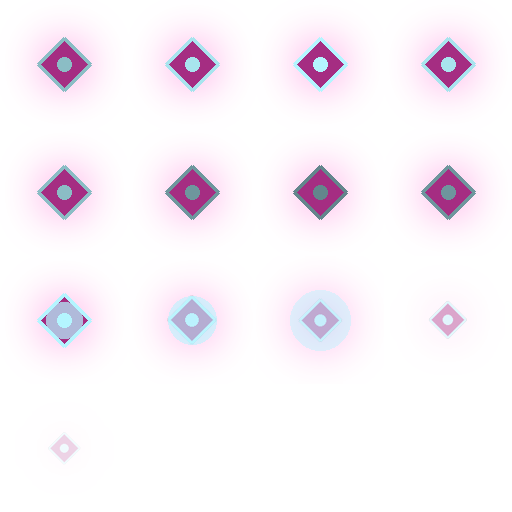
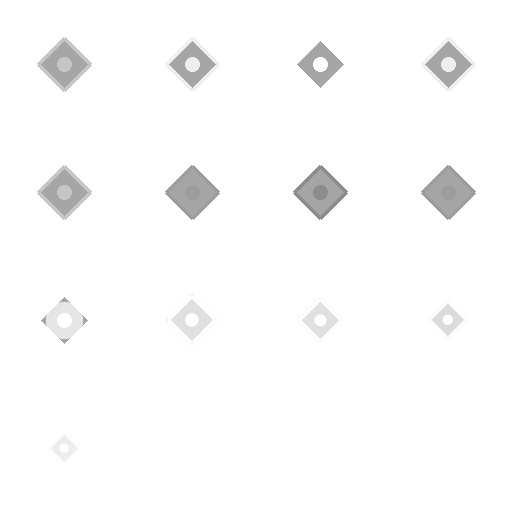
assets: sprite/backdrop generator pass + Prism arena art
Regenerated enemy sprites off the reworked palette, plus the new Prism arena
set (backdrop layers, pillar, vent).

Claude-Session: https://claude.ai/code/session_019Jpf5Yfjceeu1n5tz7Bfrk

diff --git a/assets/generator/v2/palette.py b/assets/generator/v2/palette.py
@@ -24,6 +24,12 @@ class Palette:
     accent: RGB     # highlights, muzzle flashes, projectiles
     hazard: RGB     # contact-hazard tint (vents/lava)
     obstacle: RGB   # pillar/wall body tint
+    # v2 Phase 5a: the colour enemies are *tinted* in this arena. Enemy sprites
+    # are generated from MONO (below) and coloured at runtime by ArenaDef's
+    # enemy_tint, so this is the single source of truth for that JSON value.
+    # Chosen complementary to `primary` — an enemy must never be the arena's own
+    # neon, which is exactly the bug this phase fixes.
+    enemy: RGB = (255, 255, 255)
 
 
 CORE = Palette(
@@ -34,6 +40,7 @@ CORE = Palette(
     accent=(180, 245, 255),     # pale cyan-white
     hazard=(255, 90, 160),
     obstacle=(70, 90, 140),
+    enemy=(255, 70, 200),       # magenta against the cyan core
 )
 
 FOUNDRY = Palette(
@@ -44,6 +51,7 @@ FOUNDRY = Palette(
     accent=(255, 230, 160),     # pale amber
     hazard=(255, 120, 30),
     obstacle=(120, 80, 50),
+    enemy=(70, 210, 255),       # cyan against the orange foundry
 )
 
 BIOLAB = Palette(
@@ -54,9 +62,39 @@ BIOLAB = Palette(
     accent=(200, 255, 210),     # pale green-white
     hazard=(140, 255, 90),
     obstacle=(60, 110, 90),
+    enemy=(190, 120, 255),      # violet against the green bio-lab
 )
 
-ARENAS = [CORE, FOUNDRY, BIOLAB]
+# v2 Phase 5b — the fourth arena (waves 16-20). Deliberately achromatic:
+# its enemies hue-cycle (tie-dye), so a saturated backdrop would fight a sixth of
+# every cycle. A violet-white void keeps the rainbow swarm legible throughout.
+PRISM = Palette(
+    name="prism",
+    clear=(14, 10, 22),
+    primary=(200, 190, 255),    # pale violet-white
+    secondary=(255, 255, 255),
+    accent=(240, 240, 255),
+    hazard=(255, 80, 120),
+    obstacle=(80, 78, 110),
+    enemy=(255, 255, 255),      # unused: tick_enemy_tint overwrites it every frame
+)
+
+# v2 Phase 5a — not an arena. Enemy sprites are generated against this so the art
+# is pure luminance; multiplying it by a saturated hue at runtime (SDL colour-mod)
+# reproduces the old look at full richness and makes every other hue work too.
+# The relative-value structure lives in make_sprites' scale_col()/pulse() factors,
+# so nothing about the shapes has to change.
+MONO = Palette(
+    name="mono",
+    clear=(0, 0, 0),
+    primary=(255, 255, 255),
+    secondary=(210, 210, 210),
+    accent=(255, 255, 255),
+    hazard=(255, 255, 255),
+    obstacle=(255, 255, 255),
+)
+
+ARENAS = [CORE, FOUNDRY, BIOLAB, PRISM]
 BY_NAME = {p.name: p for p in ARENAS}
 
 
@@ -67,4 +105,4 @@ def lerp(a: RGB, b: RGB, t: float) -> RGB:
 if __name__ == "__main__":
     for p in ARENAS:
         print(f"{p.name:8} clear={p.clear} primary={p.primary} "
-              f"secondary={p.secondary} accent={p.accent}")
+              f"secondary={p.secondary} accent={p.accent} enemy={p.enemy}")

diff --git a/assets/generator/v2/make_sprites.py b/assets/generator/v2/make_sprites.py
@@ -18,7 +18,7 @@ import math
 from PIL import Image, ImageDraw, ImageFilter
 
 from common import add_halo, write_sprite
-from palette import CORE, FOUNDRY, BIOLAB
+from palette import CORE, FOUNDRY, BIOLAB, MONO
 
 S = 128  # frame size
 
@@ -245,12 +245,17 @@ def main():
     write_sprite("player_drone", player_frames(6), 3,
                  {"march": {"start_frame": 0, "frame_count": 6,
                             "frame_duration": 0.09, "looping": True}})
-    # Enemies: march (loop) + death (oneshot) concatenated
+    # Enemies: march (loop) + death (oneshot) concatenated.
+    # v2 Phase 5a: drawn against MONO, i.e. pure luminance. These used to bake an
+    # arena's own primary (runner=BIOLAB green, hulk=FOUNDRY orange), which made
+    # those enemies invisible in the arena they belonged to. The colour now comes
+    # from ArenaDef::enemy_tint at spawn, via SDL colour-mod, so one sprite set
+    # serves every arena — and the tie-dye hue cycle in Prism.
     enemies = [
-        ("enemy_spark", spark_shape, CORE, CORE.secondary),
-        ("enemy_runner", runner_shape, BIOLAB, BIOLAB.primary),
-        ("enemy_hulk", hulk_shape, FOUNDRY, FOUNDRY.primary),
-        ("enemy_warden", warden_shape, CORE, CORE.secondary),
+        ("enemy_spark", spark_shape, MONO, MONO.primary),
+        ("enemy_runner", runner_shape, MONO, MONO.primary),
+        ("enemy_hulk", hulk_shape, MONO, MONO.primary),
+        ("enemy_warden", warden_shape, MONO, MONO.primary),
     ]
     for name, shape, pal, col in enemies:
         march, death = enemy_frames(shape, pal, col, 8)

diff --git a/assets/generator/v2/make_backdrops.py b/assets/generator/v2/make_backdrops.py
@@ -13,11 +13,24 @@ Run: python make_backdrops.py
 from __future__ import annotations
 
 import random
+import zlib
 
 from PIL import Image, ImageDraw, ImageFilter
 
 from common import add_halo, save_png
-from palette import CORE, FOUNDRY, BIOLAB, lerp
+from palette import CORE, FOUNDRY, BIOLAB, PRISM, lerp
+
+
+def seed_for(name: str) -> int:
+    """Stable per-arena RNG seed.
+
+    This used to be hash(name), which Python randomises per process (PYTHONHASHSEED)
+    — so "seeded RNG so regeneration is deterministic" was not actually true and a
+    re-run silently produced different backdrops. crc32 is stable across processes
+    and versions. The committed PNGs predate this fix, so the first regeneration of
+    core/foundry/biolab will change them once; every run after that is identical.
+    """
+    return zlib.crc32(name.encode()) & 0xffffffff
 
 T = 512  # tile size
 
@@ -120,8 +133,8 @@ def vent(pal):
 
 def main():
     print("make_backdrops:")
-    for pal in (CORE, FOUNDRY, BIOLAB):
-        rng = random.Random(hash(pal.name) & 0xffffffff)
+    for pal in (CORE, FOUNDRY, BIOLAB, PRISM):
+        rng = random.Random(seed_for(pal.name))
         save_png(f"bg_{pal.name}_far", far_layer(pal, rng))
         save_png(f"bg_{pal.name}_mid", mid_layer(pal, rng))
         save_png(f"bg_{pal.name}_near", near_layer(pal, rng))
